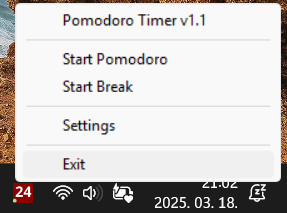
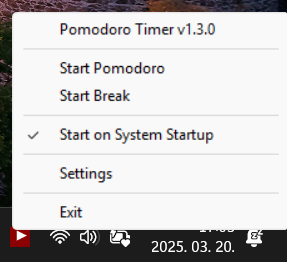
Auto-start menu on Windows

diff --git a/cmd/pomodoro-timer/pomodoro-timer.go b/cmd/pomodoro-timer/pomodoro-timer.go
@@ -21,6 +21,7 @@ import (
 	"golang.org/x/image/font"
 	"golang.org/x/image/font/opentype"
 	"golang.org/x/image/math/fixed"
+	"golang.org/x/sys/windows/registry"
 	"image/png"
 )
 
@@ -37,10 +38,11 @@ var (
 	oldDisplayText string
 	settings       TimerSettings // Stores Pomodoro timer settings
 
-	mPomodoro *systray.MenuItem // Menu item for starting a Pomodoro session
-	mBreak    *systray.MenuItem // Menu item for starting a break
-	baseImage *image.RGBA       // Base image for the system tray icon
-	fontFace  font.Face         // Font face for rendering text on the icon
+	mPomodoro  *systray.MenuItem // Menu item for starting a Pomodoro session
+	mBreak     *systray.MenuItem // Menu item for starting a break
+	mAutoStart *systray.MenuItem
+	baseImage  *image.RGBA // Base image for the system tray icon
+	fontFace   font.Face   // Font face for rendering text on the icon
 )
 
 // main is the entry point of the application.
@@ -305,7 +307,7 @@ func onReady() {
 		handleTrayClick()
 	})
 
-	mWeb := systray.AddMenuItem("Pomodoro Timer v1.2.0", "Open the website in browser")
+	mWeb := systray.AddMenuItem("Pomodoro Timer v1.3.0", "Open the website in browser")
 	mWeb.Click(func() {
 		openBrowser("https://github.com/lutischan-ferenc/pomodoro-timer")
 	})
@@ -320,6 +322,9 @@ func onReady() {
 		handleTimerClick(time.Duration(settings.ShortBreakDuration) * time.Minute)
 		isInPomodoro = false
 	})
+
+	addAutoStartMenuOnWin()
+
 	systray.AddSeparator()
 	mSettings := systray.AddMenuItem("Settings", "Configure timers")
 	mSettings.Click(func() {
@@ -502,6 +507,107 @@ func openBrowser(url string) {
 	if err != nil {
 		fmt.Println("Failed to open browser:", err)
 	}
+}
+
+const AUTO_START_NAME = "PomodoroTimer"
+
+func addAutoStartMenuOnWin() {
+	// Add auto-start menu item for Windows only
+	if runtime.GOOS == "windows" {
+		systray.AddSeparator()
+		mAutoStart = systray.AddMenuItemCheckbox("Start on System Startup", "Auto-start on System Startup", false)
+		// Check the current state of auto-start in the registry
+		if isAutoStartEnabled() {
+			mAutoStart.Check()
+		}
+
+		mAutoStart.Click(func() {
+			if mAutoStart.Checked() {
+				// Disable auto-start
+				if err := setAutoStart(false); err != nil {
+					fmt.Println("Failed to disable auto-start:", err)
+				} else {
+					fmt.Println("Auto-start disabled")
+					mAutoStart.Uncheck()
+				}
+			} else {
+				// Enable auto-start
+				if err := setAutoStart(true); err != nil {
+					fmt.Println("Failed to enable auto-start:", err)
+				} else {
+					fmt.Println("Auto-start enabled")
+					mAutoStart.Check()
+				}
+			}
+		})
+	}
+}
+
+// setAutoStart sets or removes the application from the Windows startup registry.
+func setAutoStart(enable bool) error {
+	if runtime.GOOS != "windows" {
+		return fmt.Errorf("auto-start is only supported on Windows")
+	}
+
+	// Get the path to the current executable
+	exePath, err := os.Executable()
+	if err != nil {
+		return fmt.Errorf("failed to get executable path: %v", err)
+	}
+
+	// Open the registry key for auto-start programs
+	key, err := registry.OpenKey(registry.CURRENT_USER, `Software\Microsoft\Windows\CurrentVersion\Run`, registry.SET_VALUE|registry.QUERY_VALUE)
+	if err != nil {
+		return fmt.Errorf("failed to open registry key: %v", err)
+	}
+	defer key.Close()
+
+	// Set or remove the auto-start entry
+	if enable {
+		if err := key.SetStringValue(AUTO_START_NAME, exePath); err != nil {
+			return fmt.Errorf("failed to set registry value: %v", err)
+		}
+	} else {
+		if err := key.DeleteValue(AUTO_START_NAME); err != nil && err != registry.ErrNotExist {
+			return fmt.Errorf("failed to delete registry value: %v", err)
+		}
+	}
+
+	return nil
+}
+
+// isAutoStartEnabled checks if the application is set to auto-start in the Windows registry.
+func isAutoStartEnabled() bool {
+	if runtime.GOOS != "windows" {
+		return false
+	}
+
+	// Get the path to the current executable
+	exePath, err := os.Executable()
+	if err != nil {
+		fmt.Println("Failed to get executable path:", err)
+		return false
+	}
+
+	// Open the registry key for auto-start programs
+	key, err := registry.OpenKey(registry.CURRENT_USER, `Software\Microsoft\Windows\CurrentVersion\Run`, registry.QUERY_VALUE)
+	if err != nil {
+		fmt.Println("Failed to open registry key:", err)
+		return false
+	}
+	defer key.Close()
+
+	// Check if the registry value exists and matches the current executable path
+	value, _, err := key.GetStringValue(AUTO_START_NAME)
+	if err != nil {
+		if err == registry.ErrNotExist {
+			return false
+		}
+		fmt.Println("Failed to read registry value:", err)
+		return false
+	}
+
+	return value == exePath
 }
 
 // numbersTtf contains the embedded font data.
